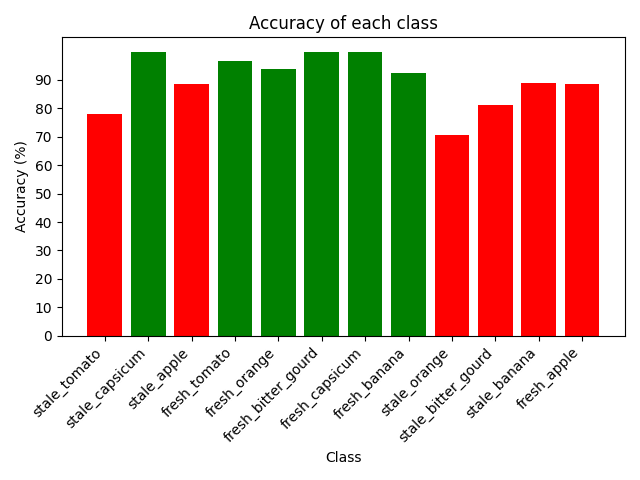
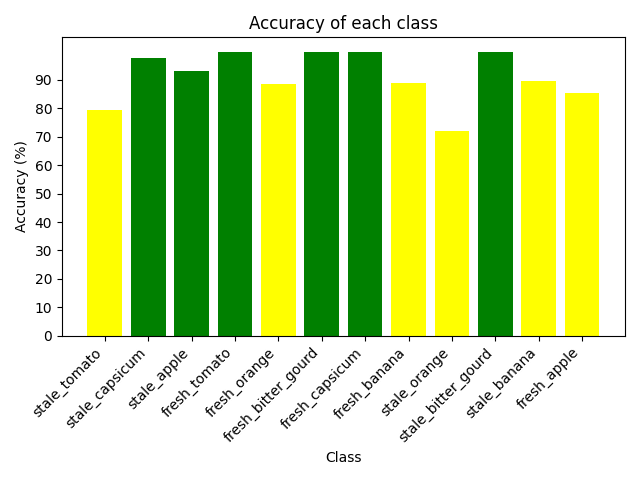
fix wording

diff --git a/ML/torch_test.py b/ML/torch_test.py
@@ -72,7 +72,7 @@ for classname, correct_count in correct.items():
 
 # Plot Accuracy of each class
 accs = [(100 * float(v) / total[c]) for c, v in correct.items()]
-bar_colors = ["green" if accuracy > 90 else "red" for accuracy in accs]
+bar_colors = ["green" if accuracy > 90 else "yellow" if accuracy > 50 else "red" for accuracy in accs]
 plt.ioff()
 plt.figure()
 plt.bar(range(len(correct)), accs, align='center', color=bar_colors)
